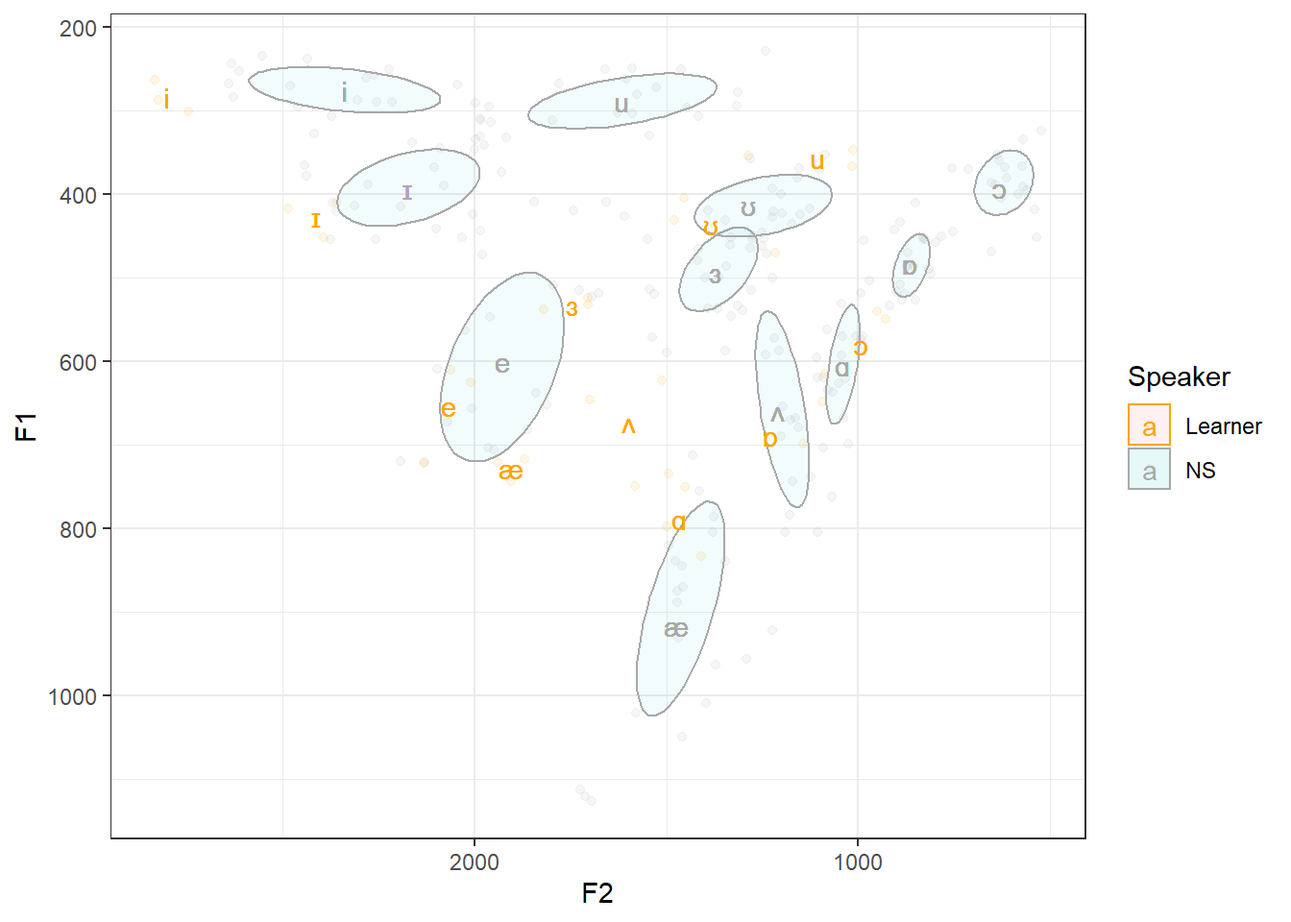
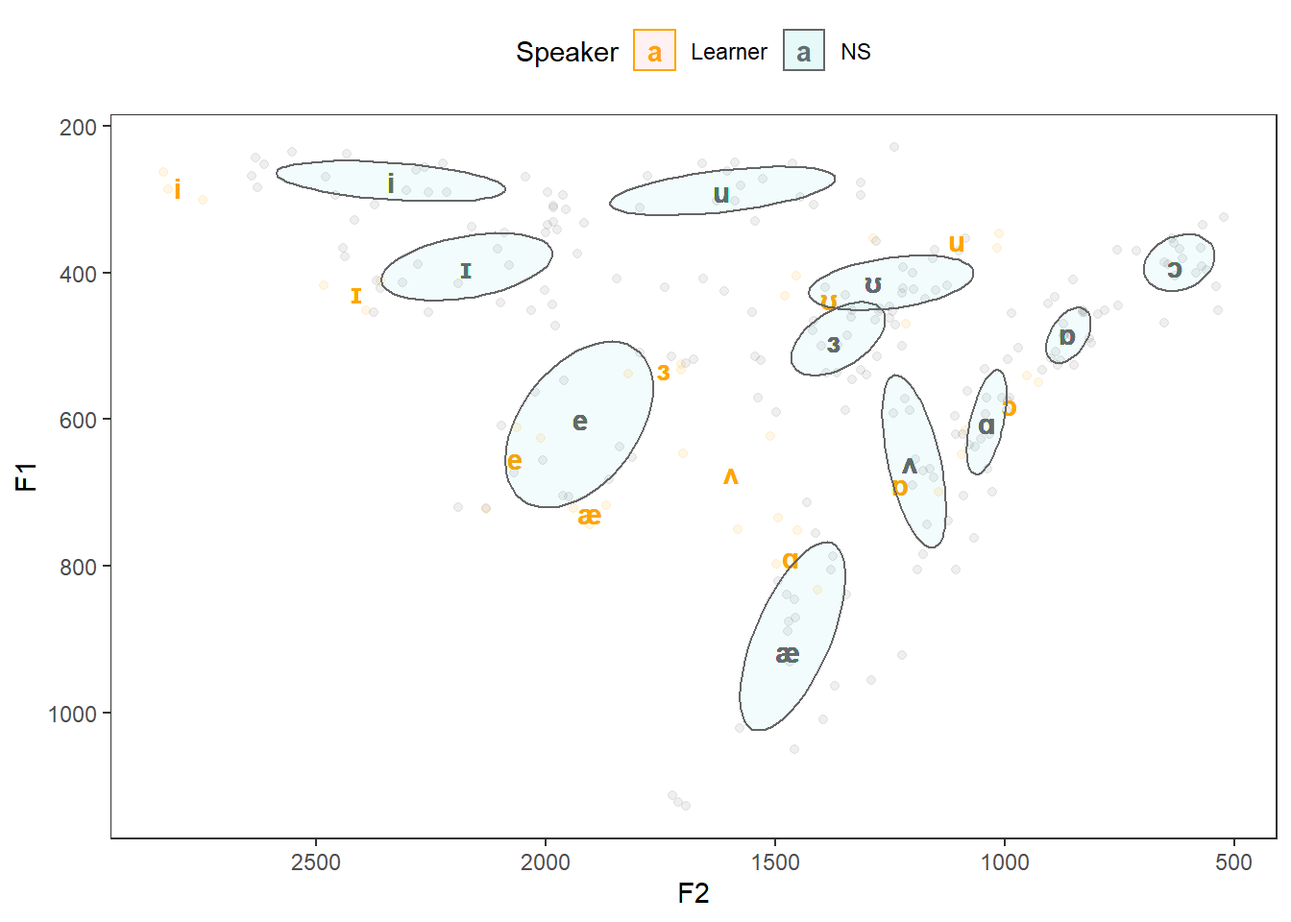
vc update

diff --git a/vc.html b/vc.html
@@ -556,8 +556,8 @@ Figure 1: Vowel Chart of monophthongal vowel sounds in Received Pronunciation (R
 <p>The subsequent sections elaborate the above steps. However, before continuing a word of warning is in order. The example focuses on extracting and plotting vowel formants in an easy but also very uncontrolled way. In case vowel formant extraction is part of a proper research project, some additional steps are warranted. For instance, in a <em>serious</em> research project, it were necessary to control and reduce environmental noise and to optimize the recording situation, one would have to randomize the test items (words with the required phonetic environment and the respective vowel sounds) and use filler items (words that are not relevant for the analysis proper) in order to avoid participants guessing which items are relevant for the analysis, one would also use text grids in Praat to guarantee replicability instead of the simple measurements we use in the example here, etc. However, in case you are only interested in an approximation of your own vowel production and how native-like it is, the example fulfills its purpose and provides the reader with a step-by-step guide on how to plot your personalized vowel chart.</p>
 <p>Downloading and installing PRAAT The first step is thus to download Praat form www.praat.org and to install it on your machine by following the instructions provided on the website and by the Praat installation script. Praat is an open{source software for acoustic analysis that was developed by Paul Boersma at the University of Amsterdam.</p>
 <p>After having installed Praat we need to record the words in which the monophthongal vowel phones occur. In this example, we will simply record the words shown below.</p>
-<div id="htmlwidget-0c7d89a595d6993dcef9" style="width:100%;height:auto;" class="datatables html-widget"></div>
-<script type="application/json" data-for="htmlwidget-0c7d89a595d6993dcef9">{"x":{"filter":"none","caption":"<caption>Table 1: Word selection with controlled environments in which monophthongal vowels occur<\/caption>","data":[["had","hard","head","heed","herd","hid","hoard","hod","hood","hud","who'd"],["æ ","ɑ ","e","i","ɜ ","ɪ ","ɔ ","ɒ ","ʊ ","ʌ ","u"],["h_d","h_d","h_d","h_d","h_d","h_d","h_d","h_d","h_d","h_d","h_d"]],"container":"<table class=\"display\">\n  <thead>\n    <tr>\n      <th>word<\/th>\n      <th>ipa_symbols<\/th>\n      <th>phonemic_context<\/th>\n    <\/tr>\n  <\/thead>\n<\/table>","options":{"pageLength":11,"scrollX":true,"order":[],"autoWidth":false,"orderClasses":false,"lengthMenu":[10,11,25,50,100]}},"evals":[],"jsHooks":[]}</script>
+<div id="htmlwidget-9fee7e771aabcb260269" style="width:100%;height:auto;" class="datatables html-widget"></div>
+<script type="application/json" data-for="htmlwidget-9fee7e771aabcb260269">{"x":{"filter":"none","caption":"<caption>Table 1: Word selection with controlled environments in which monophthongal vowels occur<\/caption>","data":[["had","hard","head","heed","herd","hid","hoard","hod","hood","hud","who'd"],["æ ","ɑ ","e","i","ɜ ","ɪ ","ɔ ","ɒ ","ʊ ","ʌ ","u"],["h_d","h_d","h_d","h_d","h_d","h_d","h_d","h_d","h_d","h_d","h_d"]],"container":"<table class=\"display\">\n  <thead>\n    <tr>\n      <th>word<\/th>\n      <th>ipa_symbols<\/th>\n      <th>phonemic_context<\/th>\n    <\/tr>\n  <\/thead>\n<\/table>","options":{"pageLength":11,"scrollX":true,"order":[],"autoWidth":false,"orderClasses":false,"lengthMenu":[10,11,25,50,100]}},"evals":[],"jsHooks":[]}</script>
 <p>The following section describes how to record data in Praat.</p>
 </div>
 <div id="recording-words-in-praat" class="section level1">
@@ -641,60 +641,43 @@ Figure 11: Praat’s edit window with the word <em>heed</em> repeated three time
 Figure 12: The mean Hertz frequency of first formant of the word <em>heed</em> during the steady state
 </p>
 </div>
-<p>To extract the second (and in case you want to use your data in other analysis also the third formant) simply choose <code>Get third formant</code> <code>(and</code>Get second formant`), note down the Hertz frequencies in a table, and also note down the start and end time of the steady state. The final table should look like Table below (some columns are removed for sake of simplicity).</p>
-<div id="htmlwidget-b752fa228fce524daf00" style="width:100%;height:auto;" class="datatables html-widget"></div>
-<script type="application/json" data-for="htmlwidget-b752fa228fce524daf00">{"x":{"filter":"none","caption":"<caption>Table 2: Vowel formants extracted from PRAAT<\/caption>","data":[["vowels","vowels","vowels","vowels","vowels","vowels","vowels","vowels","vowels","vowels","vowels","vowels","vowels","vowels","vowels","vowels","vowels","vowels","vowels","vowels","vowels","vowels","vowels","vowels","vowels","vowels","vowels","vowels","vowels","vowels","vowels","vowels","vowels"],["ms","ms","ms","ms","ms","ms","ms","ms","ms","ms","ms","ms","ms","ms","ms","ms","ms","ms","ms","ms","ms","ms","ms","ms","ms","ms","ms","ms","ms","ms","ms","ms","ms"],[1,1,1,1,1,1,1,1,1,1,1,2,2,2,2,2,2,2,2,2,2,2,3,3,3,3,3,3,3,3,3,3,3],["had","had","had","hard","hard","hard","head","head","head","heed","heed","heed","herd","herd","herd","hid","hid","hid","hoard","hoard","hoard","hod","hod","hod","hood","hood","hood","hud","hud","hud","whod","whod","whod"],[717.33607,743.483462,720.973991,734.527473,832.922804,797.284207,610.894333,722.251868,625.111709,263.382964,301.417588,286.96557,532.792463,537.796188,524.713714,451.876599,417.033045,410.681731,540.330631,549.92048,648.048222,698.406882,615.162079,751.018999,431.299339,404.18844,470.146946,646.051365,622.53022,749.353953,346.88118,353.826456,366.813688],[1868.175427,1903.715225,1938.69279,1493.328918,1407.824706,1498.206365,2062.882002,2130.632179,2009.65073,2833.001674,2745.84707,2822.598805,1704.995395,1819.891642,1704.232122,2390.799614,2483.389953,2360.038236,951.144344,927.095558,1093.346613,1144.46685,1086.447865,1452.466334,1478.192998,1453.1036,1216.302702,1700.003028,1510.451378,1581.757811,1013.000682,1285.834128,1016.979961]],"container":"<table class=\"display\">\n  <thead>\n    <tr>\n      <th>file<\/th>\n      <th>subject<\/th>\n      <th>trial<\/th>\n      <th>item<\/th>\n      <th>F1<\/th>\n      <th>F2<\/th>\n    <\/tr>\n  <\/thead>\n<\/table>","options":{"pageLength":10,"scrollX":true,"columnDefs":[{"className":"dt-right","targets":[2,4,5]}],"order":[],"autoWidth":false,"orderClasses":false}},"evals":[],"jsHooks":[]}</script>
+<p>To extract the second (and in case you want to use your data in other analysis also the third formant) simply choose <code>Get third formant</code> (and <code>Get second formant</code>), note down the Hertz frequencies in a table, and also note down the start and end time of the steady state. The final table should look like Table below (some columns are removed for sake of simplicity).</p>
+<div id="htmlwidget-2b50a75cd35e003ed301" style="width:100%;height:auto;" class="datatables html-widget"></div>
+<script type="application/json" data-for="htmlwidget-2b50a75cd35e003ed301">{"x":{"filter":"none","caption":"<caption>Table 2: Vowel formants extracted from PRAAT<\/caption>","data":[["vowels","vowels","vowels","vowels","vowels","vowels","vowels","vowels","vowels","vowels","vowels","vowels","vowels","vowels","vowels","vowels","vowels","vowels","vowels","vowels","vowels","vowels","vowels","vowels","vowels","vowels","vowels","vowels","vowels","vowels","vowels","vowels","vowels"],["ms","ms","ms","ms","ms","ms","ms","ms","ms","ms","ms","ms","ms","ms","ms","ms","ms","ms","ms","ms","ms","ms","ms","ms","ms","ms","ms","ms","ms","ms","ms","ms","ms"],[1,1,1,1,1,1,1,1,1,1,1,2,2,2,2,2,2,2,2,2,2,2,3,3,3,3,3,3,3,3,3,3,3],["had","had","had","hard","hard","hard","head","head","head","heed","heed","heed","herd","herd","herd","hid","hid","hid","hoard","hoard","hoard","hod","hod","hod","hood","hood","hood","hud","hud","hud","whod","whod","whod"],[717.33607,743.483462,720.973991,734.527473,832.922804,797.284207,610.894333,722.251868,625.111709,263.382964,301.417588,286.96557,532.792463,537.796188,524.713714,451.876599,417.033045,410.681731,540.330631,549.92048,648.048222,698.406882,615.162079,751.018999,431.299339,404.18844,470.146946,646.051365,622.53022,749.353953,346.88118,353.826456,366.813688],[1868.175427,1903.715225,1938.69279,1493.328918,1407.824706,1498.206365,2062.882002,2130.632179,2009.65073,2833.001674,2745.84707,2822.598805,1704.995395,1819.891642,1704.232122,2390.799614,2483.389953,2360.038236,951.144344,927.095558,1093.346613,1144.46685,1086.447865,1452.466334,1478.192998,1453.1036,1216.302702,1700.003028,1510.451378,1581.757811,1013.000682,1285.834128,1016.979961]],"container":"<table class=\"display\">\n  <thead>\n    <tr>\n      <th>file<\/th>\n      <th>subject<\/th>\n      <th>trial<\/th>\n      <th>item<\/th>\n      <th>F1<\/th>\n      <th>F2<\/th>\n    <\/tr>\n  <\/thead>\n<\/table>","options":{"pageLength":10,"scrollX":true,"columnDefs":[{"className":"dt-right","targets":[2,4,5]}],"order":[],"autoWidth":false,"orderClasses":false}},"evals":[],"jsHooks":[]}</script>
 <p>The next section describes how to plot the data and compare the vowels to equivalent vowels produced by native-RP speakers.</p>
 </div>
 <div id="visualizing-the-vowel-sounds" class="section level1">
 <h1><span class="header-section-number">3</span> Visualizing the vowel sounds</h1>
 <p>We will now process the data so that we can plot the F1 against the F2 values by speaker and word. To do this, we load the required packages and the data from the learner (nns) and the native speakers (ns).</p>
 <pre class="r"><code># load packages
-library(dplyr)</code></pre>
-<pre><code>## 
-## Attaching package: &#39;dplyr&#39;</code></pre>
-<pre><code>## The following objects are masked from &#39;package:stats&#39;:
-## 
-##     filter, lag</code></pre>
-<pre><code>## The following objects are masked from &#39;package:base&#39;:
-## 
-##     intersect, setdiff, setequal, union</code></pre>
-<pre class="r"><code>library(vowels)
+library(dplyr)
+library(vowels)
+library(ggplot2)
 # load data
 ns &lt;- read.table(&quot;https://slcladal.github.io/data/rpvowels.txt&quot;, header = T, sep = &quot;\t&quot;)
 nns &lt;- read.table(&quot;https://slcladal.github.io/data/vowels.txt&quot;, header = T, sep = &quot;\t&quot;) %&gt;%
   select(-file)</code></pre>
 <p>The data of the native speakers, i.e the reference data, is shown below.</p>
-<div id="htmlwidget-9cb03678c0f096c1e996" style="width:100%;height:auto;" class="datatables html-widget"></div>
-<script type="application/json" data-for="htmlwidget-9cb03678c0f096c1e996">{"x":{"filter":"none","caption":"<caption>Table 3: Vowel formants of native RP speakers<\/caption>","data":[["rpspk","rpspk","rpspk","rpspk","rpspk","rpspk","rpspk","rpspk","rpspk","rpspk","rpspk"],["had","hard","head","heed","herd","hid","hoard","hod","hood","hud","whod"],["wordlist","wordlist","wordlist","wordlist","wordlist","wordlist","wordlist","wordlist","wordlist","wordlist","wordlist"],[916.35,604.15,599.95,276.15,493.55,392.85,391.65,483.1,412.85,658.2,288.7],[1473.15,1040.15,1925.7,2337.6,1372.4,2174.35,629.6,864.9,1286.65,1208.05,1616.3],[124.29815,70.91973,102.22858,25.48328,47.40917,40.83893,39.70718,35.48002,32.98209,116.14945,30.18905],[119.43696,40.06478,143.60476,223.4244,95.94648,166.85868,81.19074,48.49948,193.6987,72.51677,225.73858]],"container":"<table class=\"display\">\n  <thead>\n    <tr>\n      <th>subject<\/th>\n      <th>item<\/th>\n      <th>context<\/th>\n      <th>F1<\/th>\n      <th>F2<\/th>\n      <th>F1sd<\/th>\n      <th>F2sd<\/th>\n    <\/tr>\n  <\/thead>\n<\/table>","options":{"pageLength":10,"scrollX":true,"columnDefs":[{"className":"dt-right","targets":[3,4,5,6]}],"order":[],"autoWidth":false,"orderClasses":false}},"evals":[],"jsHooks":[]}</script>
+<div id="htmlwidget-8511c939a4551712d8ba" style="width:100%;height:auto;" class="datatables html-widget"></div>
+<script type="application/json" data-for="htmlwidget-8511c939a4551712d8ba">{"x":{"filter":"none","caption":"<caption>Table 3: Vowel formants of native RP speakers<\/caption>","data":[["rpspk","rpspk","rpspk","rpspk","rpspk","rpspk","rpspk","rpspk","rpspk","rpspk","rpspk"],["had","hard","head","heed","herd","hid","hoard","hod","hood","hud","whod"],["wordlist","wordlist","wordlist","wordlist","wordlist","wordlist","wordlist","wordlist","wordlist","wordlist","wordlist"],[916.35,604.15,599.95,276.15,493.55,392.85,391.65,483.1,412.85,658.2,288.7],[1473.15,1040.15,1925.7,2337.6,1372.4,2174.35,629.6,864.9,1286.65,1208.05,1616.3],[124.29815,70.91973,102.22858,25.48328,47.40917,40.83893,39.70718,35.48002,32.98209,116.14945,30.18905],[119.43696,40.06478,143.60476,223.4244,95.94648,166.85868,81.19074,48.49948,193.6987,72.51677,225.73858]],"container":"<table class=\"display\">\n  <thead>\n    <tr>\n      <th>subject<\/th>\n      <th>item<\/th>\n      <th>context<\/th>\n      <th>F1<\/th>\n      <th>F2<\/th>\n      <th>F1sd<\/th>\n      <th>F2sd<\/th>\n    <\/tr>\n  <\/thead>\n<\/table>","options":{"pageLength":10,"scrollX":true,"columnDefs":[{"className":"dt-right","targets":[3,4,5,6]}],"order":[],"autoWidth":false,"orderClasses":false}},"evals":[],"jsHooks":[]}</script>
 <p>The reference data is taken from from <span class="citation">Hawkins and Midgley (<a href="#ref-hawkins2005rpvowels" role="doc-biblioref">2005</a>)</span> (see <a href="http://journals.cambridge.org/download.php?file=%2F4190_EE11D5A504D77D9E1521391B92C6038D_journals__IPA_IPA35_02_S0025100305002124a.pdf&amp;cover=Y&amp;code=251b5f479e7fd20814e1b68b258da7cd">here</a>) and represents the first and second formant for the words <em>heed</em>, <em>hid</em>, <em>head</em>, <em>had</em>, <em>hard</em>, <em>hod</em>, <em>hoard</em>, <em>hood</em>, <em>who’d</em>, <em>hud</em>, and <em>herd</em> produced by 5 20 to 25 year old L1-speakers of Received Pronunciation.</p>
 <p>We now combine the two data sets, rename the <code>subject</code> and <code>item</code> columns to <code>Speaker</code> and <code>Word</code>, add a column which holds the ipa symbols of the vowel sounds that the word represent, and we calculate the means of the F1 (<code>F1_mean</code>) and F2 (<code>F2_mean</code>) by <code>Word</code> and <code>Speaker</code>.</p>
-<div id="htmlwidget-726dd6ed505eb6e1836d" style="width:100%;height:auto;" class="datatables html-widget"></div>
-<script type="application/json" data-for="htmlwidget-726dd6ed505eb6e1836d">{"x":{"filter":"none","caption":"<caption>Table 2: Vowel formants extracted from PRAAT<\/caption>","data":[["Learner","Learner","Learner","Learner","Learner","Learner","Learner","Learner","Learner","Learner","Learner","Learner","Learner","Learner","Learner","Learner","Learner","Learner","Learner","Learner","Learner","Learner","Learner","Learner","Learner","Learner","Learner","Learner","Learner","Learner","Learner","Learner","Learner","NS","NS","NS","NS","NS","NS","NS","NS","NS","NS","NS","NS","NS","NS","NS","NS","NS","NS","NS","NS","NS","NS","NS","NS","NS","NS","NS","NS","NS","NS","NS","NS","NS","NS","NS","NS","NS","NS","NS","NS","NS","NS","NS","NS","NS","NS","NS","NS","NS","NS","NS","NS","NS","NS","NS","NS","NS","NS","NS","NS","NS","NS","NS","NS","NS","NS","NS","NS","NS","NS","NS","NS","NS","NS","NS","NS","NS","NS","NS","NS","NS","NS","NS","NS","NS","NS","NS","NS","NS","NS","NS","NS","NS","NS","NS","NS","NS","NS","NS","NS","NS","NS","NS","NS","NS","NS","NS","NS","NS","NS","NS","NS","NS","NS","NS","NS","NS","NS","NS","NS","NS","NS","NS","NS","NS","NS","NS","NS","NS","NS","NS","NS","NS","NS","NS","NS","NS","NS","NS","NS","NS","NS","NS","NS","NS","NS","NS","NS","NS","NS","NS","NS","NS","NS","NS","NS","NS","NS","NS","NS","NS","NS","NS","NS","NS","NS","NS","NS","NS","NS","NS","NS","NS","NS","NS","NS","NS","NS","NS","NS","NS","NS","NS","NS","NS","NS","NS","NS","NS","NS","NS","NS","NS","NS","NS","NS","NS","NS","NS","NS","NS","NS","NS","NS","NS","NS","NS","NS","NS","NS","NS","NS","NS","NS","NS","NS","NS","NS","NS","NS"],["had","had","had","hard","hard","hard","head","head","head","heed","heed","heed","herd","herd","herd","hid","hid","hid","hoard","hoard","hoard","hod","hod","hod","hood","hood","hood","hud","hud","hud","whod","whod","whod","heed","heed","heed","heed","heed","heed","heed","heed","heed","heed","heed","heed","heed","heed","heed","heed","heed","heed","heed","heed","hid","hid","hid","hid","hid","hid","hid","hid","hid","hid","hid","hid","hid","hid","hid","hid","hid","hid","hid","hid","head","head","head","head","head","head","head","head","head","head","head","head","head","head","head","head","head","head","head","head","had","had","had","had","had","had","had","had","had","had","had","had","had","had","had","had","had","had","had","had","hard","hard","hard","hard","hard","hard","hard","hard","hard","hard","hard","hard","hard","hard","hard","hard","hard","hard","hard","hard","hod","hod","hod","hod","hod","hod","hod","hod","hod","hod","hod","hod","hod","hod","hod","hod","hod","hod","hod","hod","hoard","hoard","hoard","hoard","hoard","hoard","hoard","hoard","hoard","hoard","hoard","hoard","hoard","hoard","hoard","hoard","hoard","hoard","hoard","hoard","hood","hood","hood","hood","hood","hood","hood","hood","hood","hood","hood","hood","hood","hood","hood","hood","hood","hood","hood","hood","whod","whod","whod","whod","whod","whod","whod","whod","whod","whod","whod","whod","whod","whod","whod","whod","whod","whod","whod","whod","hud","hud","hud","hud","hud","hud","hud","hud","hud","hud","hud","hud","hud","hud","hud","hud","hud","hud","hud","hud","herd","herd","herd","herd","herd","herd","herd","herd","herd","herd","herd","herd","herd","herd","herd","herd","herd","herd","herd","herd"],[717.33607,743.483462,720.973991,734.527473,832.922804,797.284207,610.894333,722.251868,625.111709,263.382964,301.417588,286.96557,532.792463,537.796188,524.713714,451.876599,417.033045,410.681731,540.330631,549.92048,648.048222,698.406882,615.162079,751.018999,431.299339,404.18844,470.146946,646.051365,622.53022,749.353953,346.88118,353.826456,366.813688,261,288,307,328,290,257,290,251,235,270,238,295,295,291,309,269,244,268,284,253,454,452,424,441,368,345,338,390,378,411,421,366,346,342,374,335,414,454,389,415,652,638,656,547,509,409,563,473,609,721,720,706,518,444,523,515,682,737,704,673,821,845,713,875,889,805,755,839,1121,1021,1113,1127,963,1049,956,1009,786,839,931,870,627,593,595,635,621,570,570,503,574,587,455,570,531,620,637,562,668,699,762,704,517,518,526,526,486,486,470,443,457,490,508,496,452,451,454,433,520,410,486,533,405,389,400,396,368,370,360,353,324,367,381,391,386,335,452,469,369,419,445,454,454,420,409,426,400,452,423,381,421,424,446,436,353,370,369,357,453,393,417,453,331,314,311,311,307,330,251,278,294,272,250,281,297,229,262,303,332,251,268,302,592,668,690,654,539,471,537,587,922,805,805,738,500,620,587,572,670,679,784,744,590,571,520,514,479,500,420,466,462,428,464,515,461,449,431,486,537,499,533,546],[1868.175427,1903.715225,1938.69279,1493.328918,1407.824706,1498.206365,2062.882002,2130.632179,2009.65073,2833.001674,2745.84707,2822.598805,1704.995395,1819.891642,1704.232122,2390.799614,2483.389953,2360.038236,951.144344,927.095558,1093.346613,1144.46685,1086.447865,1452.466334,1478.192998,1453.1036,1216.302702,1700.003028,1510.451378,1581.757811,1013.000682,1285.834128,1016.979961,2282,2304,2373,2416,2215,2263,2255,2223,2552,2479,2434,2459,1962,1996,1983,2045,2632,2640,2627,2612,2375,2032,2003,2098,2105,2089,2161,2079,2438,2369,2360,2442,2000,1974,1930,1996,2311,2256,2278,2191,1811,1838,2006,1960,1795,1845,2023,1979,2097,2130,2191,1950,1677,1985,1694,1726,1862,1912,1963,2070,1493,1458,1431,1470,1472,1379,1413,1345,1712,1578,1724,1695,1370,1459,1292,1396,1375,1476,1468,1457,1052,1043,1109,1078,1033,1040,1007,970,994,996,986,989,1044,1092,1066,1081,1038,1027,1068,1090,900,994,886,850,870,873,872,907,797,816,890,811,830,782,826,891,878,851,855,919,629,644,583,561,619,714,632,637,524,573,614,571,654,570,535,654,755,540,753,830,1550,1741,1657,1610,1200,1332,1198,1158,1222,1150,1252,1174,1087,1100,1153,1281,1275,1223,1125,1245,1983,1956,1984,1796,1416,1545,1462,1314,1315,1527,1589,1576,1446,1241,1605,1589,1917,1660,1778,1627,1242,1163,1202,1195,1301,1239,1390,1347,1224,1191,1107,1124,1224,1107,1207,1218,1177,1155,1178,1170,1498,1537,1532,1545,1419,1399,1391,1417,1252,1224,1282,1278,1334,1273,1347,1344,1366,1364,1314,1332],["æ","æ","æ","ɑ","ɑ","ɑ","e","e","e","i","i","i","ɜ","ɜ","ɜ","ɪ","ɪ","ɪ","ɔ","ɔ","ɔ","ɒ","ɒ","ɒ","ʊ","ʊ","ʊ","ʌ","ʌ","ʌ","u","u","u","i","i","i","i","i","i","i","i","i","i","i","i","i","i","i","i","i","i","i","i","ɪ","ɪ","ɪ","ɪ","ɪ","ɪ","ɪ","ɪ","ɪ","ɪ","ɪ","ɪ","ɪ","ɪ","ɪ","ɪ","ɪ","ɪ","ɪ","ɪ","e","e","e","e","e","e","e","e","e","e","e","e","e","e","e","e","e","e","e","e","æ","æ","æ","æ","æ","æ","æ","æ","æ","æ","æ","æ","æ","æ","æ","æ","æ","æ","æ","æ","ɑ","ɑ","ɑ","ɑ","ɑ","ɑ","ɑ","ɑ","ɑ","ɑ","ɑ","ɑ","ɑ","ɑ","ɑ","ɑ","ɑ","ɑ","ɑ","ɑ","ɒ","ɒ","ɒ","ɒ","ɒ","ɒ","ɒ","ɒ","ɒ","ɒ","ɒ","ɒ","ɒ","ɒ","ɒ","ɒ","ɒ","ɒ","ɒ","ɒ","ɔ","ɔ","ɔ","ɔ","ɔ","ɔ","ɔ","ɔ","ɔ","ɔ","ɔ","ɔ","ɔ","ɔ","ɔ","ɔ","ɔ","ɔ","ɔ","ɔ","ʊ","ʊ","ʊ","ʊ","ʊ","ʊ","ʊ","ʊ","ʊ","ʊ","ʊ","ʊ","ʊ","ʊ","ʊ","ʊ","ʊ","ʊ","ʊ","ʊ","u","u","u","u","u","u","u","u","u","u","u","u","u","u","u","u","u","u","u","u","ʌ","ʌ","ʌ","ʌ","ʌ","ʌ","ʌ","ʌ","ʌ","ʌ","ʌ","ʌ","ʌ","ʌ","ʌ","ʌ","ʌ","ʌ","ʌ","ʌ","ɜ","ɜ","ɜ","ɜ","ɜ","ɜ","ɜ","ɜ","ɜ","ɜ","ɜ","ɜ","ɜ","ɜ","ɜ","ɜ","ɜ","ɜ","ɜ","ɜ"],[727.264507666667,727.264507666667,727.264507666667,788.244828,788.244828,788.244828,652.752636666667,652.752636666667,652.752636666667,283.922040666667,283.922040666667,283.922040666667,531.767455,531.767455,531.767455,426.530458333333,426.530458333333,426.530458333333,579.433111,579.433111,579.433111,688.195986666667,688.195986666667,688.195986666667,435.211575,435.211575,435.211575,672.645179333333,672.645179333333,672.645179333333,355.840441333333,355.840441333333,355.840441333333,276.15,276.15,276.15,276.15,276.15,276.15,276.15,276.15,276.15,276.15,276.15,276.15,276.15,276.15,276.15,276.15,276.15,276.15,276.15,276.15,392.85,392.85,392.85,392.85,392.85,392.85,392.85,392.85,392.85,392.85,392.85,392.85,392.85,392.85,392.85,392.85,392.85,392.85,392.85,392.85,599.95,599.95,599.95,599.95,599.95,599.95,599.95,599.95,599.95,599.95,599.95,599.95,599.95,599.95,599.95,599.95,599.95,599.95,599.95,599.95,916.35,916.35,916.35,916.35,916.35,916.35,916.35,916.35,916.35,916.35,916.35,916.35,916.35,916.35,916.35,916.35,916.35,916.35,916.35,916.35,604.15,604.15,604.15,604.15,604.15,604.15,604.15,604.15,604.15,604.15,604.15,604.15,604.15,604.15,604.15,604.15,604.15,604.15,604.15,604.15,483.1,483.1,483.1,483.1,483.1,483.1,483.1,483.1,483.1,483.1,483.1,483.1,483.1,483.1,483.1,483.1,483.1,483.1,483.1,483.1,391.65,391.65,391.65,391.65,391.65,391.65,391.65,391.65,391.65,391.65,391.65,391.65,391.65,391.65,391.65,391.65,391.65,391.65,391.65,391.65,412.85,412.85,412.85,412.85,412.85,412.85,412.85,412.85,412.85,412.85,412.85,412.85,412.85,412.85,412.85,412.85,412.85,412.85,412.85,412.85,288.7,288.7,288.7,288.7,288.7,288.7,288.7,288.7,288.7,288.7,288.7,288.7,288.7,288.7,288.7,288.7,288.7,288.7,288.7,288.7,658.2,658.2,658.2,658.2,658.2,658.2,658.2,658.2,658.2,658.2,658.2,658.2,658.2,658.2,658.2,658.2,658.2,658.2,658.2,658.2,493.55,493.55,493.55,493.55,493.55,493.55,493.55,493.55,493.55,493.55,493.55,493.55,493.55,493.55,493.55,493.55,493.55,493.55,493.55,493.55],[1903.527814,1903.527814,1903.527814,1466.45332966667,1466.45332966667,1466.45332966667,2067.721637,2067.721637,2067.721637,2800.48251633333,2800.48251633333,2800.48251633333,1743.03971966667,1743.03971966667,1743.03971966667,2411.40926766667,2411.40926766667,2411.40926766667,990.528838333333,990.528838333333,990.528838333333,1227.793683,1227.793683,1227.793683,1382.5331,1382.5331,1382.5331,1597.40407233333,1597.40407233333,1597.40407233333,1105.27159033333,1105.27159033333,1105.27159033333,2337.6,2337.6,2337.6,2337.6,2337.6,2337.6,2337.6,2337.6,2337.6,2337.6,2337.6,2337.6,2337.6,2337.6,2337.6,2337.6,2337.6,2337.6,2337.6,2337.6,2174.35,2174.35,2174.35,2174.35,2174.35,2174.35,2174.35,2174.35,2174.35,2174.35,2174.35,2174.35,2174.35,2174.35,2174.35,2174.35,2174.35,2174.35,2174.35,2174.35,1925.7,1925.7,1925.7,1925.7,1925.7,1925.7,1925.7,1925.7,1925.7,1925.7,1925.7,1925.7,1925.7,1925.7,1925.7,1925.7,1925.7,1925.7,1925.7,1925.7,1473.15,1473.15,1473.15,1473.15,1473.15,1473.15,1473.15,1473.15,1473.15,1473.15,1473.15,1473.15,1473.15,1473.15,1473.15,1473.15,1473.15,1473.15,1473.15,1473.15,1040.15,1040.15,1040.15,1040.15,1040.15,1040.15,1040.15,1040.15,1040.15,1040.15,1040.15,1040.15,1040.15,1040.15,1040.15,1040.15,1040.15,1040.15,1040.15,1040.15,864.9,864.9,864.9,864.9,864.9,864.9,864.9,864.9,864.9,864.9,864.9,864.9,864.9,864.9,864.9,864.9,864.9,864.9,864.9,864.9,629.6,629.6,629.6,629.6,629.6,629.6,629.6,629.6,629.6,629.6,629.6,629.6,629.6,629.6,629.6,629.6,629.6,629.6,629.6,629.6,1286.65,1286.65,1286.65,1286.65,1286.65,1286.65,1286.65,1286.65,1286.65,1286.65,1286.65,1286.65,1286.65,1286.65,1286.65,1286.65,1286.65,1286.65,1286.65,1286.65,1616.3,1616.3,1616.3,1616.3,1616.3,1616.3,1616.3,1616.3,1616.3,1616.3,1616.3,1616.3,1616.3,1616.3,1616.3,1616.3,1616.3,1616.3,1616.3,1616.3,1208.05,1208.05,1208.05,1208.05,1208.05,1208.05,1208.05,1208.05,1208.05,1208.05,1208.05,1208.05,1208.05,1208.05,1208.05,1208.05,1208.05,1208.05,1208.05,1208.05,1372.4,1372.4,1372.4,1372.4,1372.4,1372.4,1372.4,1372.4,1372.4,1372.4,1372.4,1372.4,1372.4,1372.4,1372.4,1372.4,1372.4,1372.4,1372.4,1372.4]],"container":"<table class=\"display\">\n  <thead>\n    <tr>\n      <th>Speaker<\/th>\n      <th>Word<\/th>\n      <th>F1<\/th>\n      <th>F2<\/th>\n      <th>ipa<\/th>\n      <th>F1_mean<\/th>\n      <th>F2_mean<\/th>\n    <\/tr>\n  <\/thead>\n<\/table>","options":{"pageLength":10,"scrollX":true,"columnDefs":[{"className":"dt-right","targets":[2,3,5,6]}],"order":[],"autoWidth":false,"orderClasses":false}},"evals":[],"jsHooks":[]}</script>
+<div id="htmlwidget-443d0710588d25d97dea" style="width:100%;height:auto;" class="datatables html-widget"></div>
+<script type="application/json" data-for="htmlwidget-443d0710588d25d97dea">{"x":{"filter":"none","caption":"<caption>Table 2: Vowel formants extracted from PRAAT<\/caption>","data":[["Learner","Learner","Learner","Learner","Learner","Learner","Learner","Learner","Learner","Learner","Learner","Learner","Learner","Learner","Learner","Learner","Learner","Learner","Learner","Learner","Learner","Learner","Learner","Learner","Learner","Learner","Learner","Learner","Learner","Learner","Learner","Learner","Learner","NS","NS","NS","NS","NS","NS","NS","NS","NS","NS","NS","NS","NS","NS","NS","NS","NS","NS","NS","NS","NS","NS","NS","NS","NS","NS","NS","NS","NS","NS","NS","NS","NS","NS","NS","NS","NS","NS","NS","NS","NS","NS","NS","NS","NS","NS","NS","NS","NS","NS","NS","NS","NS","NS","NS","NS","NS","NS","NS","NS","NS","NS","NS","NS","NS","NS","NS","NS","NS","NS","NS","NS","NS","NS","NS","NS","NS","NS","NS","NS","NS","NS","NS","NS","NS","NS","NS","NS","NS","NS","NS","NS","NS","NS","NS","NS","NS","NS","NS","NS","NS","NS","NS","NS","NS","NS","NS","NS","NS","NS","NS","NS","NS","NS","NS","NS","NS","NS","NS","NS","NS","NS","NS","NS","NS","NS","NS","NS","NS","NS","NS","NS","NS","NS","NS","NS","NS","NS","NS","NS","NS","NS","NS","NS","NS","NS","NS","NS","NS","NS","NS","NS","NS","NS","NS","NS","NS","NS","NS","NS","NS","NS","NS","NS","NS","NS","NS","NS","NS","NS","NS","NS","NS","NS","NS","NS","NS","NS","NS","NS","NS","NS","NS","NS","NS","NS","NS","NS","NS","NS","NS","NS","NS","NS","NS","NS","NS","NS","NS","NS","NS","NS","NS","NS","NS","NS","NS","NS","NS","NS","NS","NS","NS","NS","NS","NS","NS","NS","NS","NS"],["had","had","had","hard","hard","hard","head","head","head","heed","heed","heed","herd","herd","herd","hid","hid","hid","hoard","hoard","hoard","hod","hod","hod","hood","hood","hood","hud","hud","hud","whod","whod","whod","heed","heed","heed","heed","heed","heed","heed","heed","heed","heed","heed","heed","heed","heed","heed","heed","heed","heed","heed","heed","hid","hid","hid","hid","hid","hid","hid","hid","hid","hid","hid","hid","hid","hid","hid","hid","hid","hid","hid","hid","head","head","head","head","head","head","head","head","head","head","head","head","head","head","head","head","head","head","head","head","had","had","had","had","had","had","had","had","had","had","had","had","had","had","had","had","had","had","had","had","hard","hard","hard","hard","hard","hard","hard","hard","hard","hard","hard","hard","hard","hard","hard","hard","hard","hard","hard","hard","hod","hod","hod","hod","hod","hod","hod","hod","hod","hod","hod","hod","hod","hod","hod","hod","hod","hod","hod","hod","hoard","hoard","hoard","hoard","hoard","hoard","hoard","hoard","hoard","hoard","hoard","hoard","hoard","hoard","hoard","hoard","hoard","hoard","hoard","hoard","hood","hood","hood","hood","hood","hood","hood","hood","hood","hood","hood","hood","hood","hood","hood","hood","hood","hood","hood","hood","whod","whod","whod","whod","whod","whod","whod","whod","whod","whod","whod","whod","whod","whod","whod","whod","whod","whod","whod","whod","hud","hud","hud","hud","hud","hud","hud","hud","hud","hud","hud","hud","hud","hud","hud","hud","hud","hud","hud","hud","herd","herd","herd","herd","herd","herd","herd","herd","herd","herd","herd","herd","herd","herd","herd","herd","herd","herd","herd","herd"],[717.33607,743.483462,720.973991,734.527473,832.922804,797.284207,610.894333,722.251868,625.111709,263.382964,301.417588,286.96557,532.792463,537.796188,524.713714,451.876599,417.033045,410.681731,540.330631,549.92048,648.048222,698.406882,615.162079,751.018999,431.299339,404.18844,470.146946,646.051365,622.53022,749.353953,346.88118,353.826456,366.813688,261,288,307,328,290,257,290,251,235,270,238,295,295,291,309,269,244,268,284,253,454,452,424,441,368,345,338,390,378,411,421,366,346,342,374,335,414,454,389,415,652,638,656,547,509,409,563,473,609,721,720,706,518,444,523,515,682,737,704,673,821,845,713,875,889,805,755,839,1121,1021,1113,1127,963,1049,956,1009,786,839,931,870,627,593,595,635,621,570,570,503,574,587,455,570,531,620,637,562,668,699,762,704,517,518,526,526,486,486,470,443,457,490,508,496,452,451,454,433,520,410,486,533,405,389,400,396,368,370,360,353,324,367,381,391,386,335,452,469,369,419,445,454,454,420,409,426,400,452,423,381,421,424,446,436,353,370,369,357,453,393,417,453,331,314,311,311,307,330,251,278,294,272,250,281,297,229,262,303,332,251,268,302,592,668,690,654,539,471,537,587,922,805,805,738,500,620,587,572,670,679,784,744,590,571,520,514,479,500,420,466,462,428,464,515,461,449,431,486,537,499,533,546],[1868.175427,1903.715225,1938.69279,1493.328918,1407.824706,1498.206365,2062.882002,2130.632179,2009.65073,2833.001674,2745.84707,2822.598805,1704.995395,1819.891642,1704.232122,2390.799614,2483.389953,2360.038236,951.144344,927.095558,1093.346613,1144.46685,1086.447865,1452.466334,1478.192998,1453.1036,1216.302702,1700.003028,1510.451378,1581.757811,1013.000682,1285.834128,1016.979961,2282,2304,2373,2416,2215,2263,2255,2223,2552,2479,2434,2459,1962,1996,1983,2045,2632,2640,2627,2612,2375,2032,2003,2098,2105,2089,2161,2079,2438,2369,2360,2442,2000,1974,1930,1996,2311,2256,2278,2191,1811,1838,2006,1960,1795,1845,2023,1979,2097,2130,2191,1950,1677,1985,1694,1726,1862,1912,1963,2070,1493,1458,1431,1470,1472,1379,1413,1345,1712,1578,1724,1695,1370,1459,1292,1396,1375,1476,1468,1457,1052,1043,1109,1078,1033,1040,1007,970,994,996,986,989,1044,1092,1066,1081,1038,1027,1068,1090,900,994,886,850,870,873,872,907,797,816,890,811,830,782,826,891,878,851,855,919,629,644,583,561,619,714,632,637,524,573,614,571,654,570,535,654,755,540,753,830,1550,1741,1657,1610,1200,1332,1198,1158,1222,1150,1252,1174,1087,1100,1153,1281,1275,1223,1125,1245,1983,1956,1984,1796,1416,1545,1462,1314,1315,1527,1589,1576,1446,1241,1605,1589,1917,1660,1778,1627,1242,1163,1202,1195,1301,1239,1390,1347,1224,1191,1107,1124,1224,1107,1207,1218,1177,1155,1178,1170,1498,1537,1532,1545,1419,1399,1391,1417,1252,1224,1282,1278,1334,1273,1347,1344,1366,1364,1314,1332],["æ","æ","æ","ɑ","ɑ","ɑ","e","e","e","i","i","i","ɜ","ɜ","ɜ","ɪ","ɪ","ɪ","ɔ","ɔ","ɔ","ɒ","ɒ","ɒ","ʊ","ʊ","ʊ","ʌ","ʌ","ʌ","u","u","u","i","i","i","i","i","i","i","i","i","i","i","i","i","i","i","i","i","i","i","i","ɪ","ɪ","ɪ","ɪ","ɪ","ɪ","ɪ","ɪ","ɪ","ɪ","ɪ","ɪ","ɪ","ɪ","ɪ","ɪ","ɪ","ɪ","ɪ","ɪ","e","e","e","e","e","e","e","e","e","e","e","e","e","e","e","e","e","e","e","e","æ","æ","æ","æ","æ","æ","æ","æ","æ","æ","æ","æ","æ","æ","æ","æ","æ","æ","æ","æ","ɑ","ɑ","ɑ","ɑ","ɑ","ɑ","ɑ","ɑ","ɑ","ɑ","ɑ","ɑ","ɑ","ɑ","ɑ","ɑ","ɑ","ɑ","ɑ","ɑ","ɒ","ɒ","ɒ","ɒ","ɒ","ɒ","ɒ","ɒ","ɒ","ɒ","ɒ","ɒ","ɒ","ɒ","ɒ","ɒ","ɒ","ɒ","ɒ","ɒ","ɔ","ɔ","ɔ","ɔ","ɔ","ɔ","ɔ","ɔ","ɔ","ɔ","ɔ","ɔ","ɔ","ɔ","ɔ","ɔ","ɔ","ɔ","ɔ","ɔ","ʊ","ʊ","ʊ","ʊ","ʊ","ʊ","ʊ","ʊ","ʊ","ʊ","ʊ","ʊ","ʊ","ʊ","ʊ","ʊ","ʊ","ʊ","ʊ","ʊ","u","u","u","u","u","u","u","u","u","u","u","u","u","u","u","u","u","u","u","u","ʌ","ʌ","ʌ","ʌ","ʌ","ʌ","ʌ","ʌ","ʌ","ʌ","ʌ","ʌ","ʌ","ʌ","ʌ","ʌ","ʌ","ʌ","ʌ","ʌ","ɜ","ɜ","ɜ","ɜ","ɜ","ɜ","ɜ","ɜ","ɜ","ɜ","ɜ","ɜ","ɜ","ɜ","ɜ","ɜ","ɜ","ɜ","ɜ","ɜ"],[727.264507666667,727.264507666667,727.264507666667,788.244828,788.244828,788.244828,652.752636666667,652.752636666667,652.752636666667,283.922040666667,283.922040666667,283.922040666667,531.767455,531.767455,531.767455,426.530458333333,426.530458333333,426.530458333333,579.433111,579.433111,579.433111,688.195986666667,688.195986666667,688.195986666667,435.211575,435.211575,435.211575,672.645179333333,672.645179333333,672.645179333333,355.840441333333,355.840441333333,355.840441333333,276.15,276.15,276.15,276.15,276.15,276.15,276.15,276.15,276.15,276.15,276.15,276.15,276.15,276.15,276.15,276.15,276.15,276.15,276.15,276.15,392.85,392.85,392.85,392.85,392.85,392.85,392.85,392.85,392.85,392.85,392.85,392.85,392.85,392.85,392.85,392.85,392.85,392.85,392.85,392.85,599.95,599.95,599.95,599.95,599.95,599.95,599.95,599.95,599.95,599.95,599.95,599.95,599.95,599.95,599.95,599.95,599.95,599.95,599.95,599.95,916.35,916.35,916.35,916.35,916.35,916.35,916.35,916.35,916.35,916.35,916.35,916.35,916.35,916.35,916.35,916.35,916.35,916.35,916.35,916.35,604.15,604.15,604.15,604.15,604.15,604.15,604.15,604.15,604.15,604.15,604.15,604.15,604.15,604.15,604.15,604.15,604.15,604.15,604.15,604.15,483.1,483.1,483.1,483.1,483.1,483.1,483.1,483.1,483.1,483.1,483.1,483.1,483.1,483.1,483.1,483.1,483.1,483.1,483.1,483.1,391.65,391.65,391.65,391.65,391.65,391.65,391.65,391.65,391.65,391.65,391.65,391.65,391.65,391.65,391.65,391.65,391.65,391.65,391.65,391.65,412.85,412.85,412.85,412.85,412.85,412.85,412.85,412.85,412.85,412.85,412.85,412.85,412.85,412.85,412.85,412.85,412.85,412.85,412.85,412.85,288.7,288.7,288.7,288.7,288.7,288.7,288.7,288.7,288.7,288.7,288.7,288.7,288.7,288.7,288.7,288.7,288.7,288.7,288.7,288.7,658.2,658.2,658.2,658.2,658.2,658.2,658.2,658.2,658.2,658.2,658.2,658.2,658.2,658.2,658.2,658.2,658.2,658.2,658.2,658.2,493.55,493.55,493.55,493.55,493.55,493.55,493.55,493.55,493.55,493.55,493.55,493.55,493.55,493.55,493.55,493.55,493.55,493.55,493.55,493.55],[1903.527814,1903.527814,1903.527814,1466.45332966667,1466.45332966667,1466.45332966667,2067.721637,2067.721637,2067.721637,2800.48251633333,2800.48251633333,2800.48251633333,1743.03971966667,1743.03971966667,1743.03971966667,2411.40926766667,2411.40926766667,2411.40926766667,990.528838333333,990.528838333333,990.528838333333,1227.793683,1227.793683,1227.793683,1382.5331,1382.5331,1382.5331,1597.40407233333,1597.40407233333,1597.40407233333,1105.27159033333,1105.27159033333,1105.27159033333,2337.6,2337.6,2337.6,2337.6,2337.6,2337.6,2337.6,2337.6,2337.6,2337.6,2337.6,2337.6,2337.6,2337.6,2337.6,2337.6,2337.6,2337.6,2337.6,2337.6,2174.35,2174.35,2174.35,2174.35,2174.35,2174.35,2174.35,2174.35,2174.35,2174.35,2174.35,2174.35,2174.35,2174.35,2174.35,2174.35,2174.35,2174.35,2174.35,2174.35,1925.7,1925.7,1925.7,1925.7,1925.7,1925.7,1925.7,1925.7,1925.7,1925.7,1925.7,1925.7,1925.7,1925.7,1925.7,1925.7,1925.7,1925.7,1925.7,1925.7,1473.15,1473.15,1473.15,1473.15,1473.15,1473.15,1473.15,1473.15,1473.15,1473.15,1473.15,1473.15,1473.15,1473.15,1473.15,1473.15,1473.15,1473.15,1473.15,1473.15,1040.15,1040.15,1040.15,1040.15,1040.15,1040.15,1040.15,1040.15,1040.15,1040.15,1040.15,1040.15,1040.15,1040.15,1040.15,1040.15,1040.15,1040.15,1040.15,1040.15,864.9,864.9,864.9,864.9,864.9,864.9,864.9,864.9,864.9,864.9,864.9,864.9,864.9,864.9,864.9,864.9,864.9,864.9,864.9,864.9,629.6,629.6,629.6,629.6,629.6,629.6,629.6,629.6,629.6,629.6,629.6,629.6,629.6,629.6,629.6,629.6,629.6,629.6,629.6,629.6,1286.65,1286.65,1286.65,1286.65,1286.65,1286.65,1286.65,1286.65,1286.65,1286.65,1286.65,1286.65,1286.65,1286.65,1286.65,1286.65,1286.65,1286.65,1286.65,1286.65,1616.3,1616.3,1616.3,1616.3,1616.3,1616.3,1616.3,1616.3,1616.3,1616.3,1616.3,1616.3,1616.3,1616.3,1616.3,1616.3,1616.3,1616.3,1616.3,1616.3,1208.05,1208.05,1208.05,1208.05,1208.05,1208.05,1208.05,1208.05,1208.05,1208.05,1208.05,1208.05,1208.05,1208.05,1208.05,1208.05,1208.05,1208.05,1208.05,1208.05,1372.4,1372.4,1372.4,1372.4,1372.4,1372.4,1372.4,1372.4,1372.4,1372.4,1372.4,1372.4,1372.4,1372.4,1372.4,1372.4,1372.4,1372.4,1372.4,1372.4]],"container":"<table class=\"display\">\n  <thead>\n    <tr>\n      <th>Speaker<\/th>\n      <th>Word<\/th>\n      <th>F1<\/th>\n      <th>F2<\/th>\n      <th>ipa<\/th>\n      <th>F1_mean<\/th>\n      <th>F2_mean<\/th>\n    <\/tr>\n  <\/thead>\n<\/table>","options":{"pageLength":10,"scrollX":true,"columnDefs":[{"className":"dt-right","targets":[2,3,5,6]}],"order":[],"autoWidth":false,"orderClasses":false}},"evals":[],"jsHooks":[]}</script>
 <p>We can now generate the vowel chart by plotting the F1 values against the F2 values. In addition, we will differentiate between different vowel sounds as well as between the learner (Learner) and native speakers (NS).</p>
-<pre class="r"><code>library(ggplot2)
-ns &lt;- voweldata %&gt;% filter(Speaker == &quot;NS&quot;)
+<pre class="r"><code>ns &lt;- voweldata %&gt;% filter(Speaker == &quot;NS&quot;)
 nns &lt;- voweldata %&gt;% filter(Speaker == &quot;Learner&quot;)
 ggplot(voweldata, aes(F2, F1, color = Speaker, group = Word, fill = Speaker)) +
   geom_point(alpha = .1) +
+  geom_text(data = voweldata, aes(x = F2_mean, y = F1_mean, label = ipa), fontface = &quot;bold&quot;)  +
   stat_ellipse(data = ns, level = 0.50, geom = &quot;polygon&quot;, alpha = 0.05, aes(fill = Speaker)) +
   stat_ellipse(data = nns, level = 0.95, geom = &quot;polygon&quot;, alpha = 0.05, aes(fill = Speaker)) +
-  scale_x_reverse() + scale_y_reverse() +
-  scale_color_manual(breaks = c(&quot;Learner&quot;, &quot;NS&quot;), values = c(&quot;orange&quot;, &quot;darkgray&quot;)) +
-  theme(legend.position = &quot;top&quot;) +
-  geom_text(data = voweldata, aes(x = F2_mean, y = F1_mean, label = ipa)) +
-  theme_bw()</code></pre>
-<pre><code>## Too few points to calculate an ellipse
-## Too few points to calculate an ellipse
-## Too few points to calculate an ellipse
-## Too few points to calculate an ellipse
-## Too few points to calculate an ellipse
-## Too few points to calculate an ellipse
-## Too few points to calculate an ellipse
-## Too few points to calculate an ellipse
-## Too few points to calculate an ellipse
-## Too few points to calculate an ellipse
-## Too few points to calculate an ellipse</code></pre>
+  scale_x_reverse(breaks = seq(500, 3000, 500), labels = seq(500, 3000, 500)) + scale_y_reverse() +
+  scale_color_manual(breaks = c(&quot;Learner&quot;, &quot;NS&quot;), values = c(&quot;orange&quot;, &quot;gray40&quot;)) +
+  theme_bw() +
+  theme(legend.position = &quot;top&quot;,
+        panel.grid.major = element_blank(), 
+        panel.grid.minor = element_blank())</code></pre>
 <p><img src="vc_files/figure-html/unnamed-chunk-2-1.png" width="672" /></p>
 <p>The vowel chart shows that the i-sounds by the L1-German speaker are more fronted and that the o-sounds are substantially higher by the non-native speaker compared to the RP reference vowel spaces. The short u-sound, however, is very similar, indicating that this L1-German speaker produces the short u-sound in English very native-like while the long u-sound is higher and more fronted in the speech of the L1-German speaker. Interestingly, the vowel space of the ash differs quite dramatically between the native speakers and the L1 German speaker which could be caused by the fact that German does not have an ash vowel. I hope this short tutorial helps you in creating your own personalized vowel charts with Praat and R.</p>
 </div>
